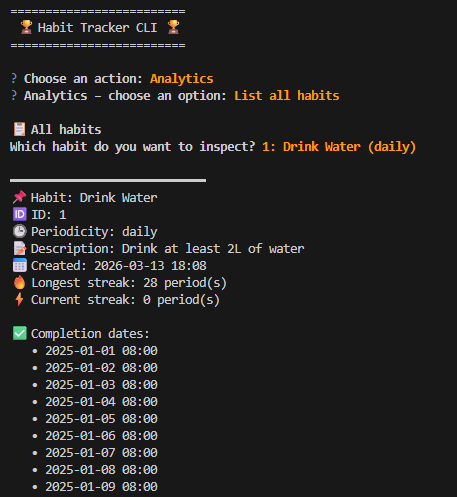
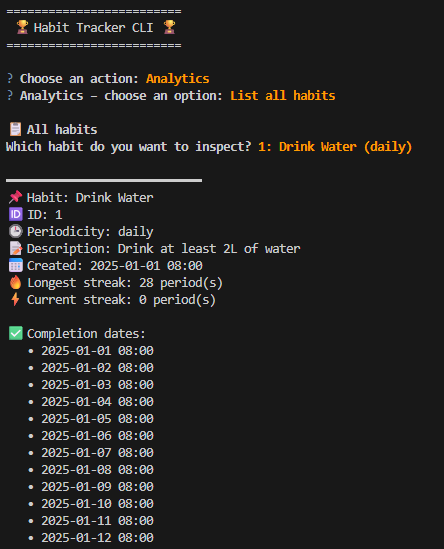
feat: add created_date parameter to add_habit and update tests for explicit date usage

Changed region(s): [[0.0, 0.1207, 0.9369, 0.996], [0.0, 0.0, 0.4099, 0.0905]]

diff --git a/src/habit_tracker/services/habit_manager.py b/src/habit_tracker/services/habit_manager.py
@@ -132,7 +132,13 @@ class HabitManager(HabitService):
     # ------------------------------------------------------------------
     # Public API
     # ------------------------------------------------------------------
-    def add_habit(self, name: str, periodicity: str, description: Optional[str] = None) -> Habit:
+    def add_habit(
+        self,
+        name: str,
+        periodicity: str,
+        description: Optional[str] = None,
+        created_date: Optional[datetime] = None,
+    ) -> Habit:
         """
         Add a new habit.
 
@@ -143,11 +149,12 @@ class HabitManager(HabitService):
             name: Habit name.
             periodicity: "daily" or "weekly" (string-based).
             description: Optional longer description.
+            created_date: Optional creation datetime. If omitted, uses datetime.now().
 
         Returns:
             The created Habit instance.
         """
-        created = datetime.now()
+        created = created_date or datetime.now()
 
         if self._storage is not None:
             habit_data = {

diff --git a/tests/test_habit_manager.py b/tests/test_habit_manager.py
@@ -475,3 +475,16 @@ def test_seed_predefined_habits_force_adds_even_if_existing(monkeypatch, fixed_n
 
     assert created == 1
     assert [h.name for h in mgr.list_habits()] == ["Existing", "Drink Water"]
+
+def test_add_habit_uses_explicit_created_date_when_provided(fixed_now) -> None:
+    mgr = HabitManager(storage=None)
+    explicit_created = datetime(2024, 12, 1, 9, 30, 0)
+
+    h = mgr.add_habit(
+        "Read",
+        "daily",
+        description="10 pages",
+        created_date=explicit_created,
+    )
+
+    assert h.created_date == explicit_created

diff --git a/src/habit_tracker/app_entry.py b/src/habit_tracker/app_entry.py
@@ -37,6 +37,7 @@ def _run_demo_session() -> None:
             name=habit_dict["name"],
             periodicity=habit_dict["periodicity"],
             description=habit_dict["description"],
+            created_date=habit_dict["created_date"],
         )
         for dt in habit_dict["completion_dates"]:
             manager.log_completion(habit.habit_id, when=dt)
